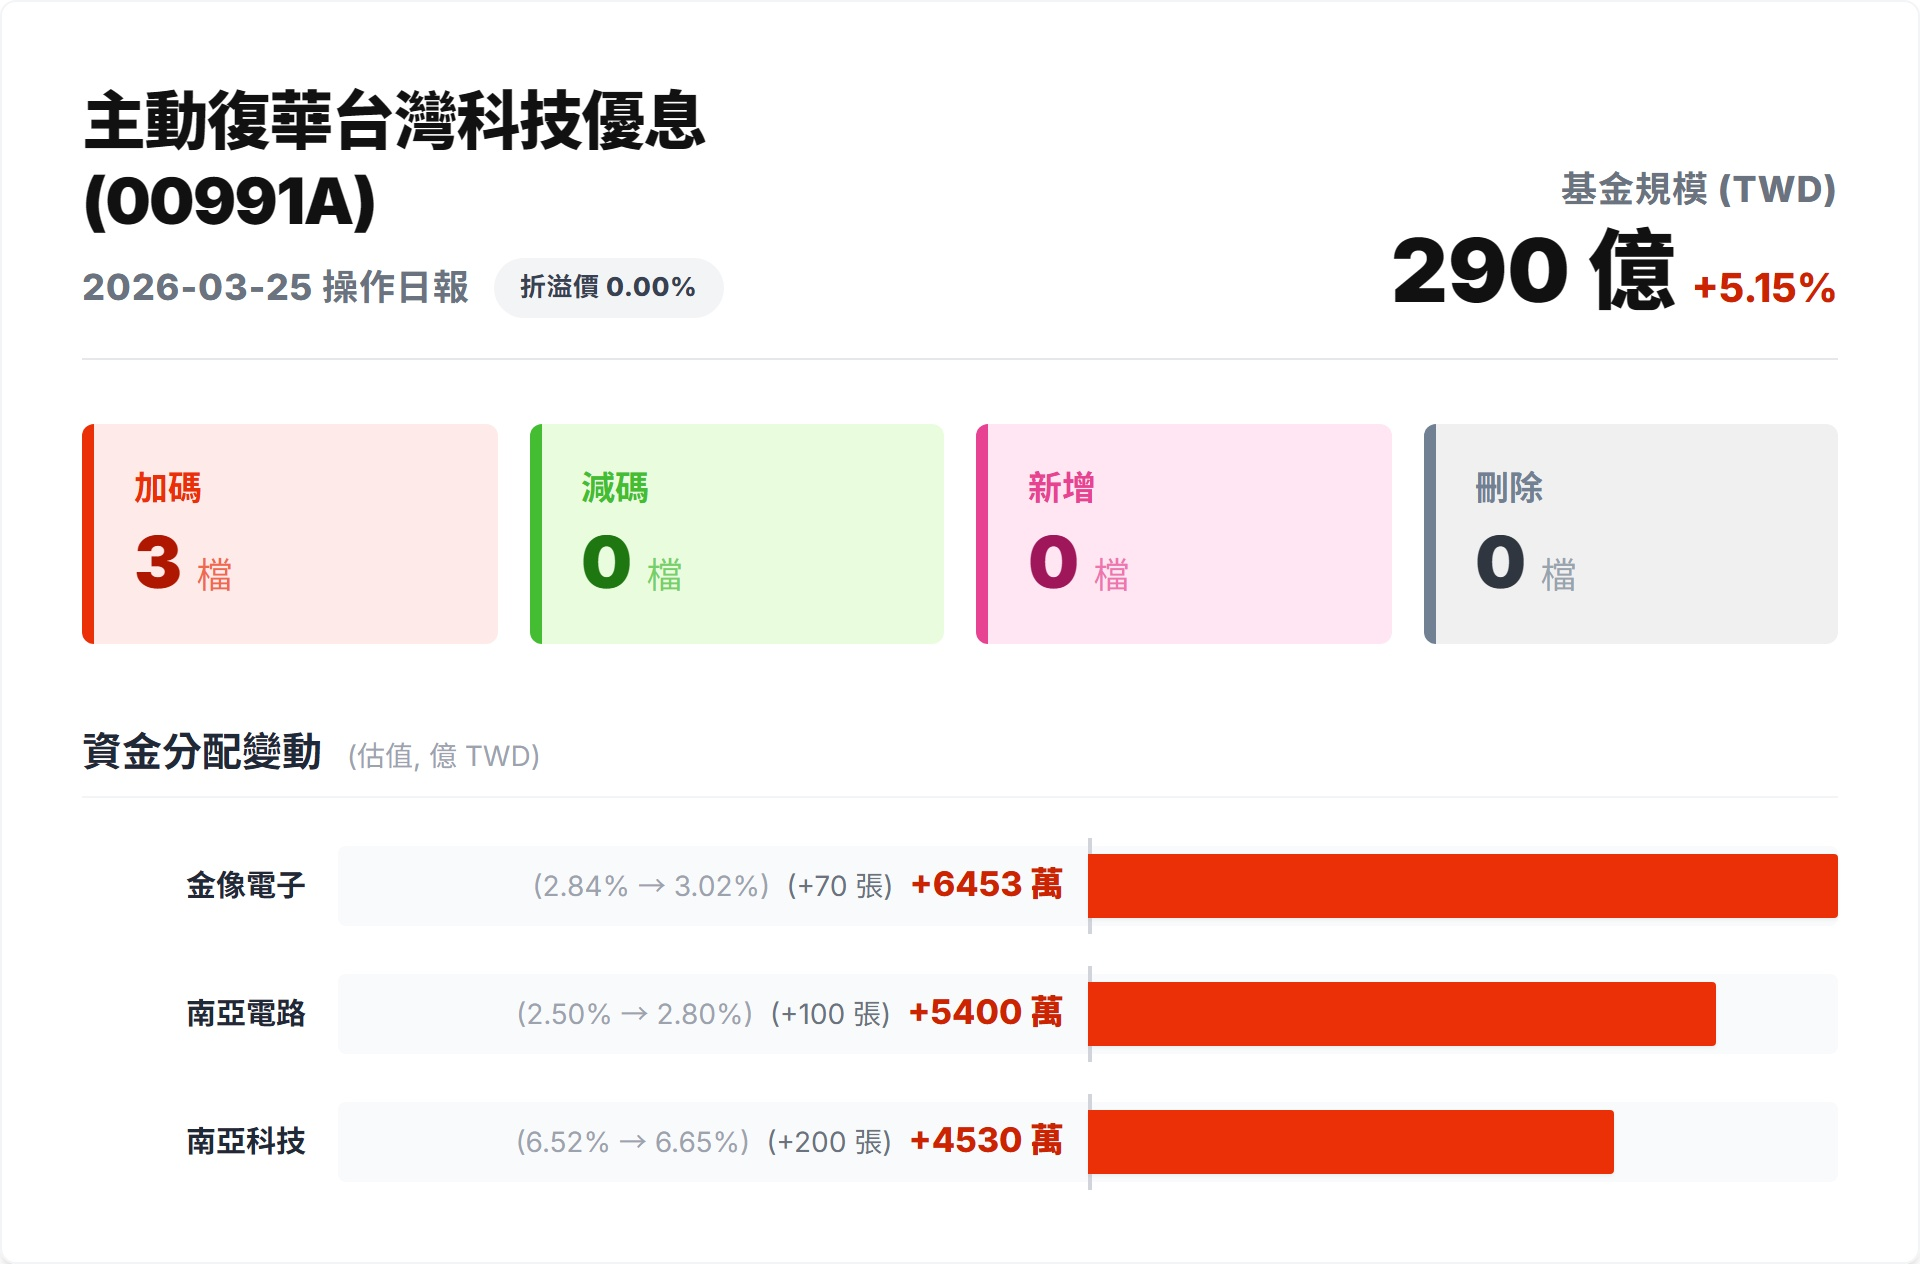
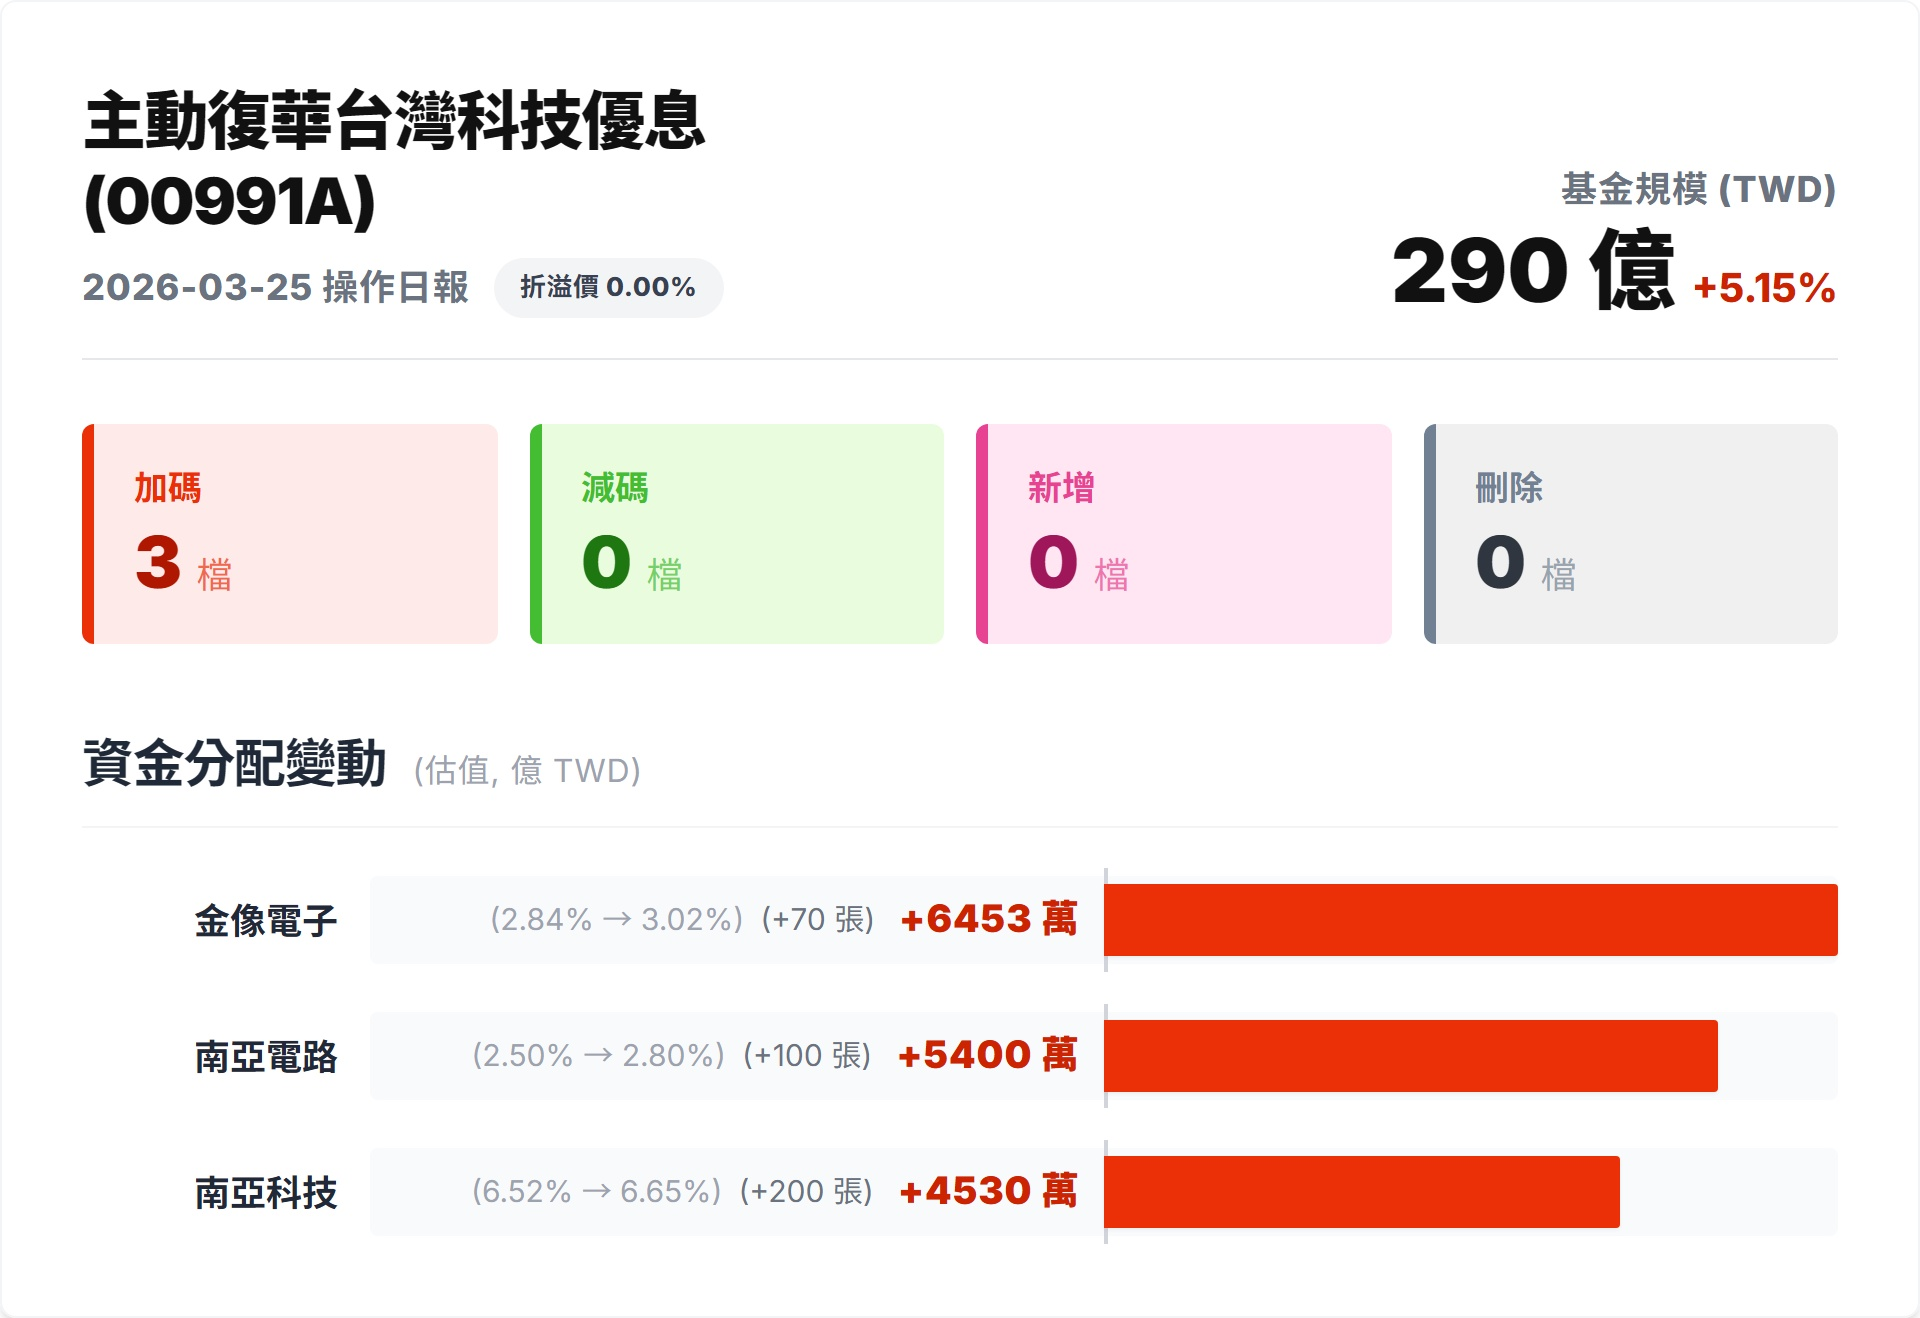
Enhance bar chart readability with larger typography for labels and titles

diff --git a/scripts/generate_etf_summary.py b/scripts/generate_etf_summary.py
@@ -138,7 +138,7 @@ def render_html(title, data_curr, date_curr, data_prev, date_prev):
             </div>
         </div>
 
-        <h2 class="text-xl font-bold mb-6 text-gray-800 border-b border-gray-100 pb-2">資金分配變動 <span class="text-sm font-normal text-gray-400 ml-2">(估值, 億 TWD)</span></h2>
+        <h2 class="text-[26px] font-bold mb-6 text-gray-800 border-b border-gray-100 pb-3 tracking-tight">資金分配變動 <span class="text-[16px] font-normal text-gray-400 ml-2 tracking-wide">(估值, 億 TWD)</span></h2>
         
         <div class="space-y-6">
     """
@@ -153,11 +153,11 @@ def render_html(title, data_curr, date_curr, data_prev, date_prev):
             sign = "+" if r['sd'] > 0 else ""
             
             html += f"""
-            <div class="flex items-center text-[15px]">
+            <div class="flex items-center">
                 <!-- Label -->
-                <div class="w-32 text-right pr-4 font-bold text-gray-800 whitespace-nowrap truncate">{r['name']}</div>
+                <div class="w-36 text-right pr-4 text-[18px] font-bold text-gray-800 whitespace-nowrap truncate">{r['name']}</div>
                 <!-- Track -->
-                <div class="flex-1 flex items-center relative h-10 rounded bg-gray-50 overflow-visible">
+                <div class="flex-1 flex items-center relative h-11 rounded bg-gray-50 overflow-visible">
                     <!-- 0 Line marker -->
                     <div class="absolute left-1/2 top-[-4px] bottom-[-4px] w-[2px] bg-gray-300 z-0"></div>
             """
@@ -166,23 +166,23 @@ def render_html(title, data_curr, date_curr, data_prev, date_prev):
             if r['am'] < 0:
                 html += f"""
                     <div class="w-1/2 flex justify-end z-10">
-                        <div class="h-8 {color_class} shadow-sm rounded-l-sm" style="width: {w_pct}%"></div>
+                        <div class="h-9 {color_class} shadow-sm rounded-l-sm" style="width: {w_pct}%"></div>
                     </div>
                     <div class="w-1/2 z-10 pl-3 flex items-center">
-                        <span class="font-extrabold text-[17px] text-[#258C18] whitespace-nowrap">{fmt_money(r['am'])}</span>
-                        <span class="text-gray-500 text-sm font-medium ml-2 whitespace-nowrap">({sign}{r['sd']//1000:,} 張)</span>
-                        <span class="text-gray-400 text-sm ml-2 hidden sm:inline whitespace-nowrap">({r['pw']:.2f}% &rarr; {r['cw']:.2f}%)</span>
+                        <span class="font-black text-[19px] text-[#258C18] whitespace-nowrap tracking-wide">{fmt_money(r['am'])}</span>
+                        <span class="text-gray-500 text-[15px] font-medium ml-3 whitespace-nowrap">({sign}{r['sd']//1000:,} 張)</span>
+                        <span class="text-gray-400 text-[15px] ml-2 hidden sm:inline whitespace-nowrap">({r['pw']:.2f}% &rarr; {r['cw']:.2f}%)</span>
                     </div>
                 """
             else:
                 html += f"""
                     <div class="w-1/2 z-10 pr-3 flex items-center justify-end">
-                        <span class="text-gray-400 text-sm mr-2 hidden sm:inline whitespace-nowrap">({r['pw']:.2f}% &rarr; {r['cw']:.2f}%)</span>
-                        <span class="text-gray-500 text-sm font-medium mr-2 whitespace-nowrap">({sign}{r['sd']//1000:,} 張)</span>
-                        <span class="font-extrabold text-[17px] text-[#CC2400] whitespace-nowrap">{fmt_money(r['am'])}</span>
+                        <span class="text-gray-400 text-[15px] mr-2 hidden sm:inline whitespace-nowrap">({r['pw']:.2f}% &rarr; {r['cw']:.2f}%)</span>
+                        <span class="text-gray-500 text-[15px] font-medium mr-3 whitespace-nowrap">({sign}{r['sd']//1000:,} 張)</span>
+                        <span class="font-black text-[19px] text-[#CC2400] whitespace-nowrap tracking-wide">{fmt_money(r['am'])}</span>
                     </div>
                     <div class="w-1/2 flex justify-start z-10">
-                        <div class="h-8 {color_class} shadow-sm rounded-r-sm" style="width: {w_pct}%"></div>
+                        <div class="h-9 {color_class} shadow-sm rounded-r-sm" style="width: {w_pct}%"></div>
                     </div>
                 """
                 
